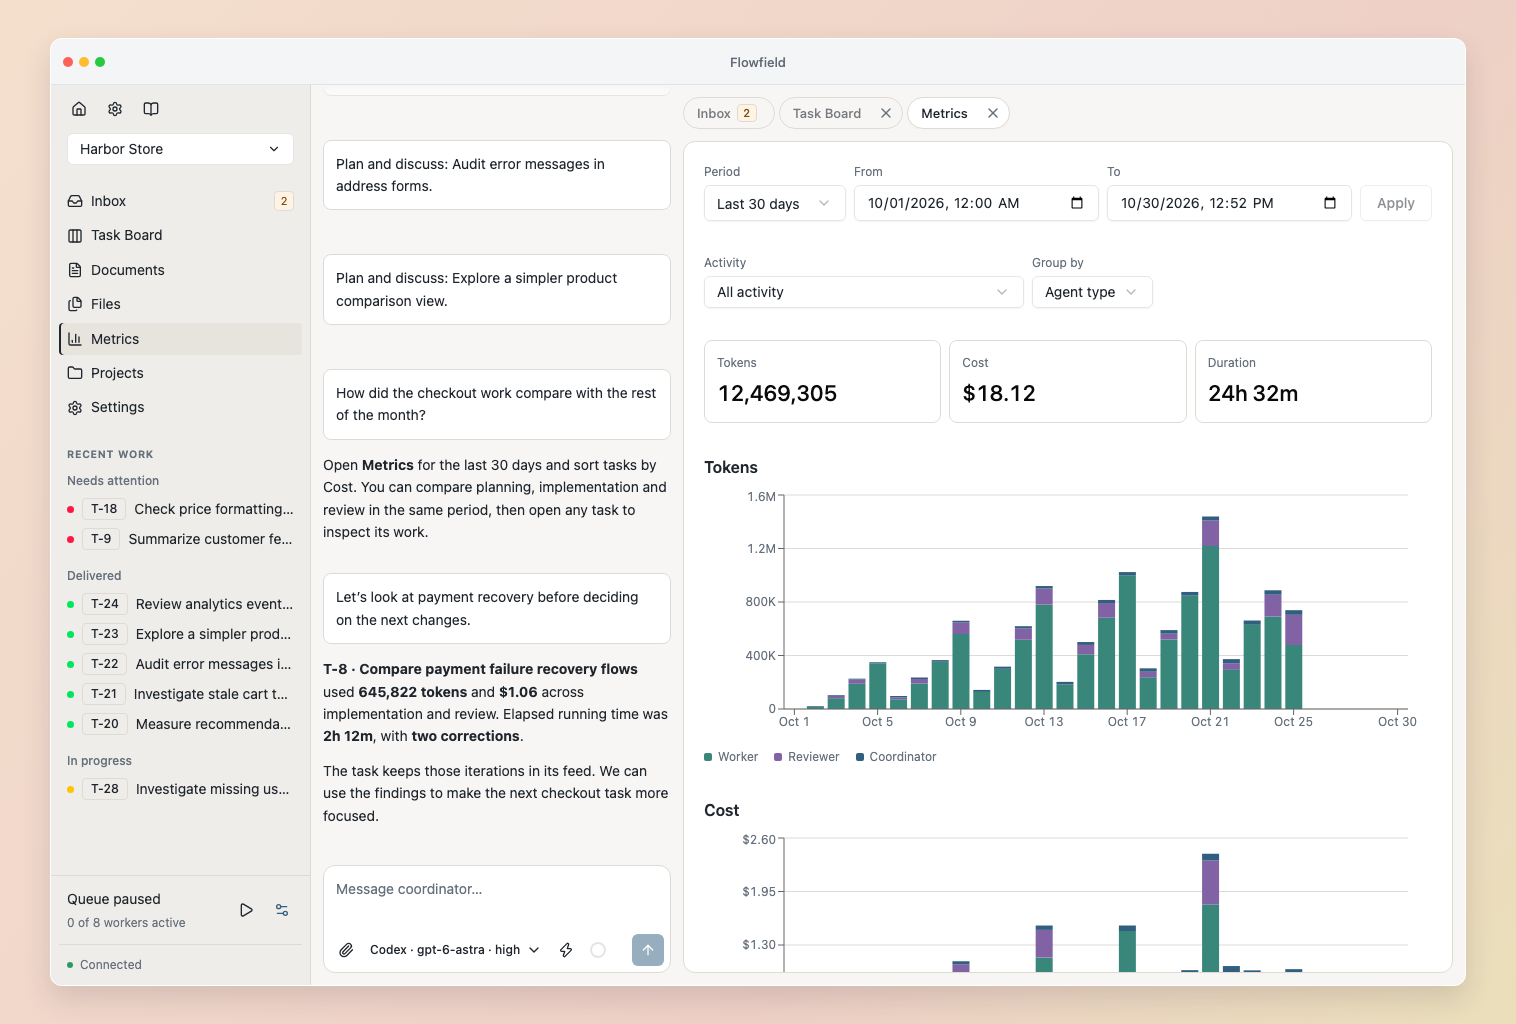
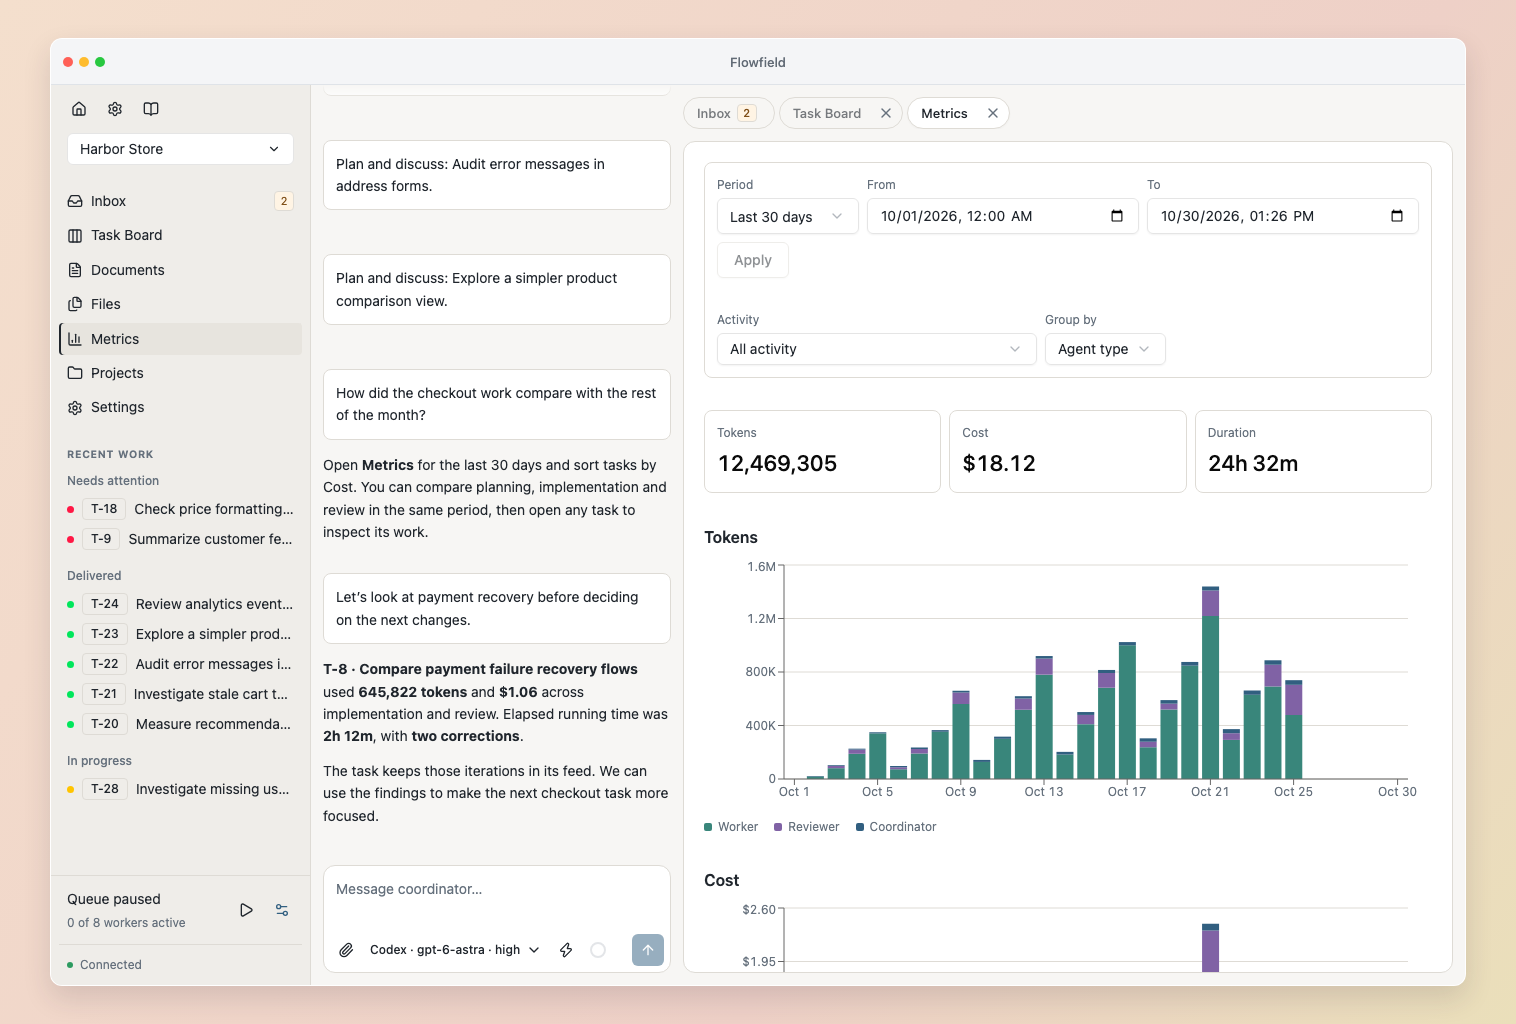
Fix task editor cancel and group Metrics controls

diff --git a/web/e2e/task-controls.spec.ts b/web/e2e/task-controls.spec.ts
@@ -309,3 +309,50 @@ assert execution.claim(sys.argv[2], "", {}, task_id=sys.argv[3])
   await expect(page.getByText("Draft", { exact: true })).toHaveCount(0);
   await dialogViews(page, info, "task-editor-stopped-retained");
 });
+
+test("Cancel confirms unsaved edits after a task leaves Backlog", async ({
+  page,
+  request,
+}) => {
+  const value = seed();
+  const base = `/workspaces/${value.workspace}`;
+  const href = `${base}/tasks/${value.task}`;
+  await page.goto(href);
+  await page.getByRole("button", { name: "Edit task", exact: true }).click();
+  const editor = page.getByRole("region", { name: "Edit task", exact: true });
+  await editor
+    .getByLabel("Task title", { exact: true })
+    .fill("Discard this unsaved title");
+  const before = await (
+    await request.get(`/api${base}/tasks/${value.id}`)
+  ).json();
+  expect(
+    (
+      await request.post(`/api${base}/view/tasks/${value.id}/prioritize`, {
+        data: { expected_revision: before.revision, status: "up_next" },
+      })
+    ).ok(),
+  ).toBe(true);
+  await expect(
+    editor.getByRole("button", { name: "Save task", exact: true }),
+  ).toBeDisabled();
+  await editor.getByRole("button", { name: "Cancel", exact: true }).click();
+  const confirmation = page.getByRole("alertdialog");
+  await expect(confirmation).toContainText("Discard your unsaved edits?");
+  await confirmation
+    .getByRole("button", { name: "Keep editing", exact: true })
+    .click();
+  await expect(editor.getByLabel("Task title", { exact: true })).toHaveValue(
+    "Discard this unsaved title",
+  );
+  await editor.getByRole("button", { name: "Cancel", exact: true }).click();
+  await confirmation
+    .getByRole("button", { name: "Discard changes", exact: true })
+    .click();
+  await expect(page).toHaveURL(href);
+  await expect(editor).toHaveCount(0);
+  const after = await (
+    await request.get(`/api${base}/tasks/${value.id}`)
+  ).json();
+  expect(after.title).toBe(before.title);
+});

diff --git a/web/src/TaskEditor.tsx b/web/src/TaskEditor.tsx
@@ -50,7 +50,11 @@ export function TaskEditor({
     <section ref={element} className="editor" aria-label="Edit task">
       <DetailHeader title="Edit task" close={close} />
       <ContentStack space="section">
-        {!task.edit_blocker && <EditorFeedback state={state} />}
+        {task.edit_blocker ? (
+          state.confirmation
+        ) : (
+          <EditorFeedback state={state} />
+        )}
         {loaded && (
           <form
             className="content-stack"

diff --git a/web/src/UsageMetrics.tsx b/web/src/UsageMetrics.tsx
@@ -108,9 +108,6 @@ export function UsageMetrics({
                   {view.totals.cost.rate_dates.join(", ")}.
                 </p>
               )}
-              {view.totals.cost.estimates.includes(
-                "cache-writes-at-input-rate",
-              ) && <p>Unreported cache detail uses the input rate.</p>}
               {view.totals.cost.coverage !== "complete" && (
                 <p>
                   Includes priced usage only; some usage or pricing data is

diff --git a/web/e2e/task-usage.spec.ts b/web/e2e/task-usage.spec.ts
@@ -69,7 +69,7 @@ test("task metrics shows one clock and tooltip role breakdowns without accountin
     "Based on API costs as of 2026-10-29.",
   );
   await expect(usage.locator("dd").nth(1)).toHaveText("$1.25");
-  await expect(page.getByRole("tooltip")).toContainText(
+  await expect(page.getByRole("tooltip")).not.toContainText(
     "Unreported cache detail uses the input rate.",
   );
   await expect(page.getByRole("tooltip")).toContainText(

diff --git a/web/src/WorkspaceUsage.tsx b/web/src/WorkspaceUsage.tsx
@@ -121,7 +121,7 @@ export function WorkspaceUsage({
   return (
     <section className="workspace-usage" aria-label="Workspace metrics">
       <ContentStack space="settings">
-        <ContentStack space="settings">
+        <ContentStack space="settings" className="detail-panel">
           <DateRange
             key={`${start}/${end}`}
             start={start}

diff --git a/CHANGELOG.md b/CHANGELOG.md
@@ -6,6 +6,7 @@
 
 - Restore Codex cost estimates when cache-write details are unavailable, including affected saved usage. Workspace charts and totals now show the priced portion when older activity has no accounting.
 - Preserve the cursor when editing tasks, documents and responses. Report an occupied service port with a clear error instead of a traceback.
+- Keep Cancel working when an open task editor leaves Backlog.
 
 ### Improvements
 
